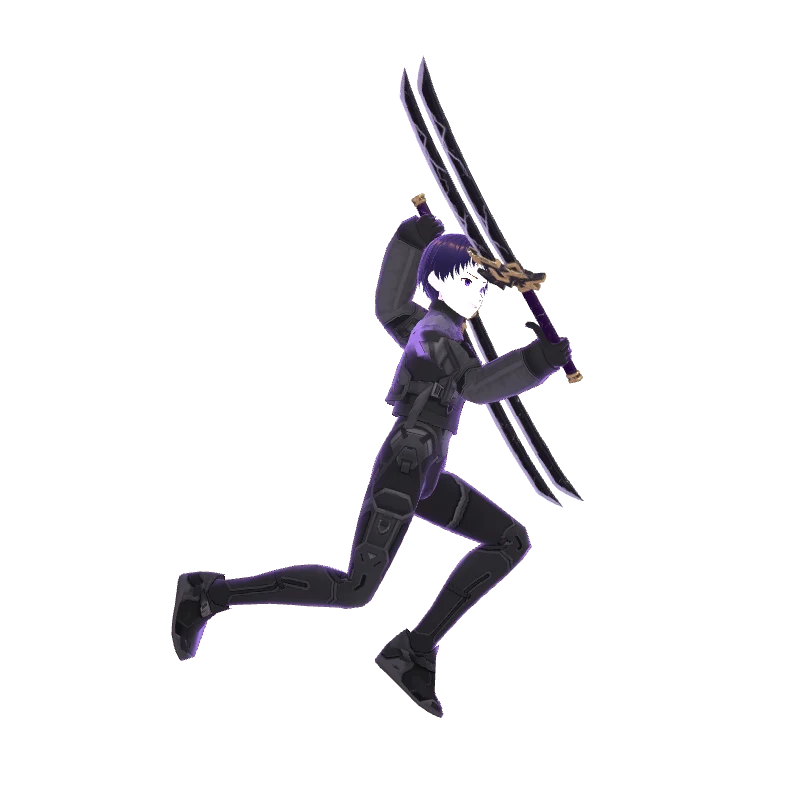
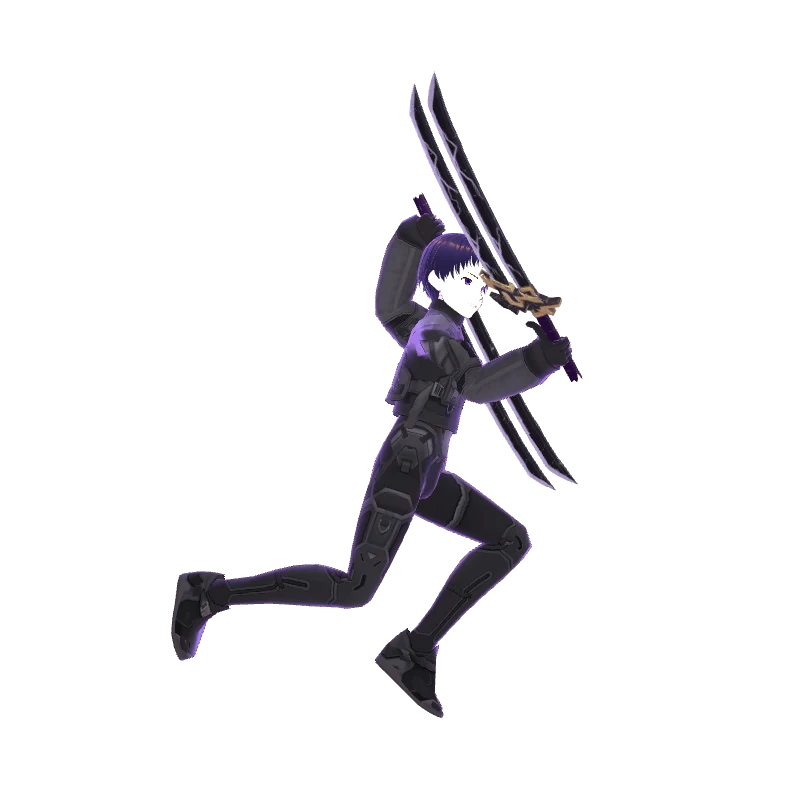
ライカの双剣の長すぎる柄を短くし、鍔の近くを握るように (v1.7.5)

Changed region(s): [[0.5, 0.0625, 0.7188, 0.5], [0.5938, 0.4688, 0.7188, 0.625], [0.5312, 0.3438, 0.5625, 0.375]]

diff --git a/src/weaponglb.js b/src/weaponglb.js
@@ -4,10 +4,10 @@
 import * as THREE from 'three';
 import { GLTFLoader } from '../vendor/addons/loaders/GLTFLoader.js';
 
-// len: 全長(m) / grip: 下端から柄の中心までの割合 / trail: 軌跡を描く範囲(刃先側の割合)
+// len: 全長(m) / grip: 下端から柄の中心までの割合 / trail: 軌跡を描く範囲(刃先側の割合) / trim: 柄の下端を切り落とす割合
 const DEF = {
   sword: { len: 1.36, grip: 0.1, trail: 0.3 },
-  twin: { len: 1.0, grip: 0.1, trail: 0.3 },
+  twin: { len: 1.05, grip: 0.19, trim: 0.12, trail: 0.5 },   // 柄が長すぎるので下12%を切り落とす
   spear: { len: 2.9, grip: 0.3, trail: 0.7 },
   hammer: { len: 2.0, grip: 0.2, trail: 0.62 },
 };
@@ -29,6 +29,7 @@ function prep(scene, d) {
   scene.updateMatrixWorld(true);
   const box = new THREE.Box3().setFromObject(scene), h = Math.max(0.01, box.max.y - box.min.y), k = d.len / h;
   scene.traverse((o) => { if (o.isMesh) { o.castShadow = true; o.userData.shared = true; } });
+  if (d.trim) trimBottom(scene, box.min.y + h * d.trim);
   const top = (1 - d.grip) * d.len;
   return {
     scene, d, top,
@@ -36,6 +37,20 @@ function prep(scene, d) {
     off: new THREE.Vector3(-(box.min.x + box.max.x) / 2, -(box.min.y + h * d.grip), -(box.min.z + box.max.z) / 2),
     k, mats: new Map(),
   };
+}
+
+// 指定の高さより下にある三角形を取り除く(長すぎる柄を短くする)
+function trimBottom(scene, cutY) {
+  const v = new THREE.Vector3();
+  scene.traverse((o) => {
+    if (!o.isMesh) return;
+    const g = o.geometry.clone(), pos = g.attributes.position;
+    const below = new Uint8Array(pos.count);
+    for (let i = 0; i < pos.count; i++) { v.fromBufferAttribute(pos, i).applyMatrix4(o.matrixWorld); below[i] = v.y < cutY ? 1 : 0; }
+    const src = g.index ? g.index.array : Array.from({ length: pos.count }, (_, i) => i), keep = [];
+    for (let i = 0; i < src.length; i += 3) { const a = src[i], b = src[i + 1], c = src[i + 2]; if (!(below[a] && below[b] && below[c])) keep.push(a, b, c); }
+    g.setIndex(keep); o.geometry = g;
+  });
 }
 
 // レア度と属性色で光り方を変えた材質(同じ組み合わせは使い回す)

diff --git a/sw.js b/sw.js
@@ -1,6 +1,6 @@
 // サービスワーカー: 全ファイルをキャッシュしてオフラインでも遊べるようにする
 // ※ ゲームを更新したら CACHE の番号を上げてください(古いキャッシュが破棄されます)
-const CACHE = 'seiga-v1.7.4';
+const CACHE = 'seiga-v1.7.5';
 const FILES = [
   './', 'index.html', 'manifest.webmanifest', 'css/style.css', 'vendor/three.module.min.js',
   'icons/icon-192.png', 'icons/icon-512.png', 'icons/icon-maskable-512.png', 'icons/apple-touch-icon.png',

diff --git a/src/config.js b/src/config.js
@@ -4,7 +4,7 @@
 // 空のままでも、ゲーム内「設定」画面から個別にURLを入力できます。
 export const CLOUD_URL = 'https://script.google.com/macros/s/AKfycbwIXAdAaQbAvjuTPs3f40_3I8KxJB3mKbrFkAzfM-IuFDj_kmxqeDuisBGuqbjSZOJp1Q/exec';
 
-export const VERSION = '1.7.4';
+export const VERSION = '1.7.5';
 
 // VRoid のキャラ(VRM)。ファイルを vrm/ フォルダに入れ、武将ID: パス を書くと差し替わります
 // 武将ID: reiga / setsuna / raika / gandou / fuuka / yomi
